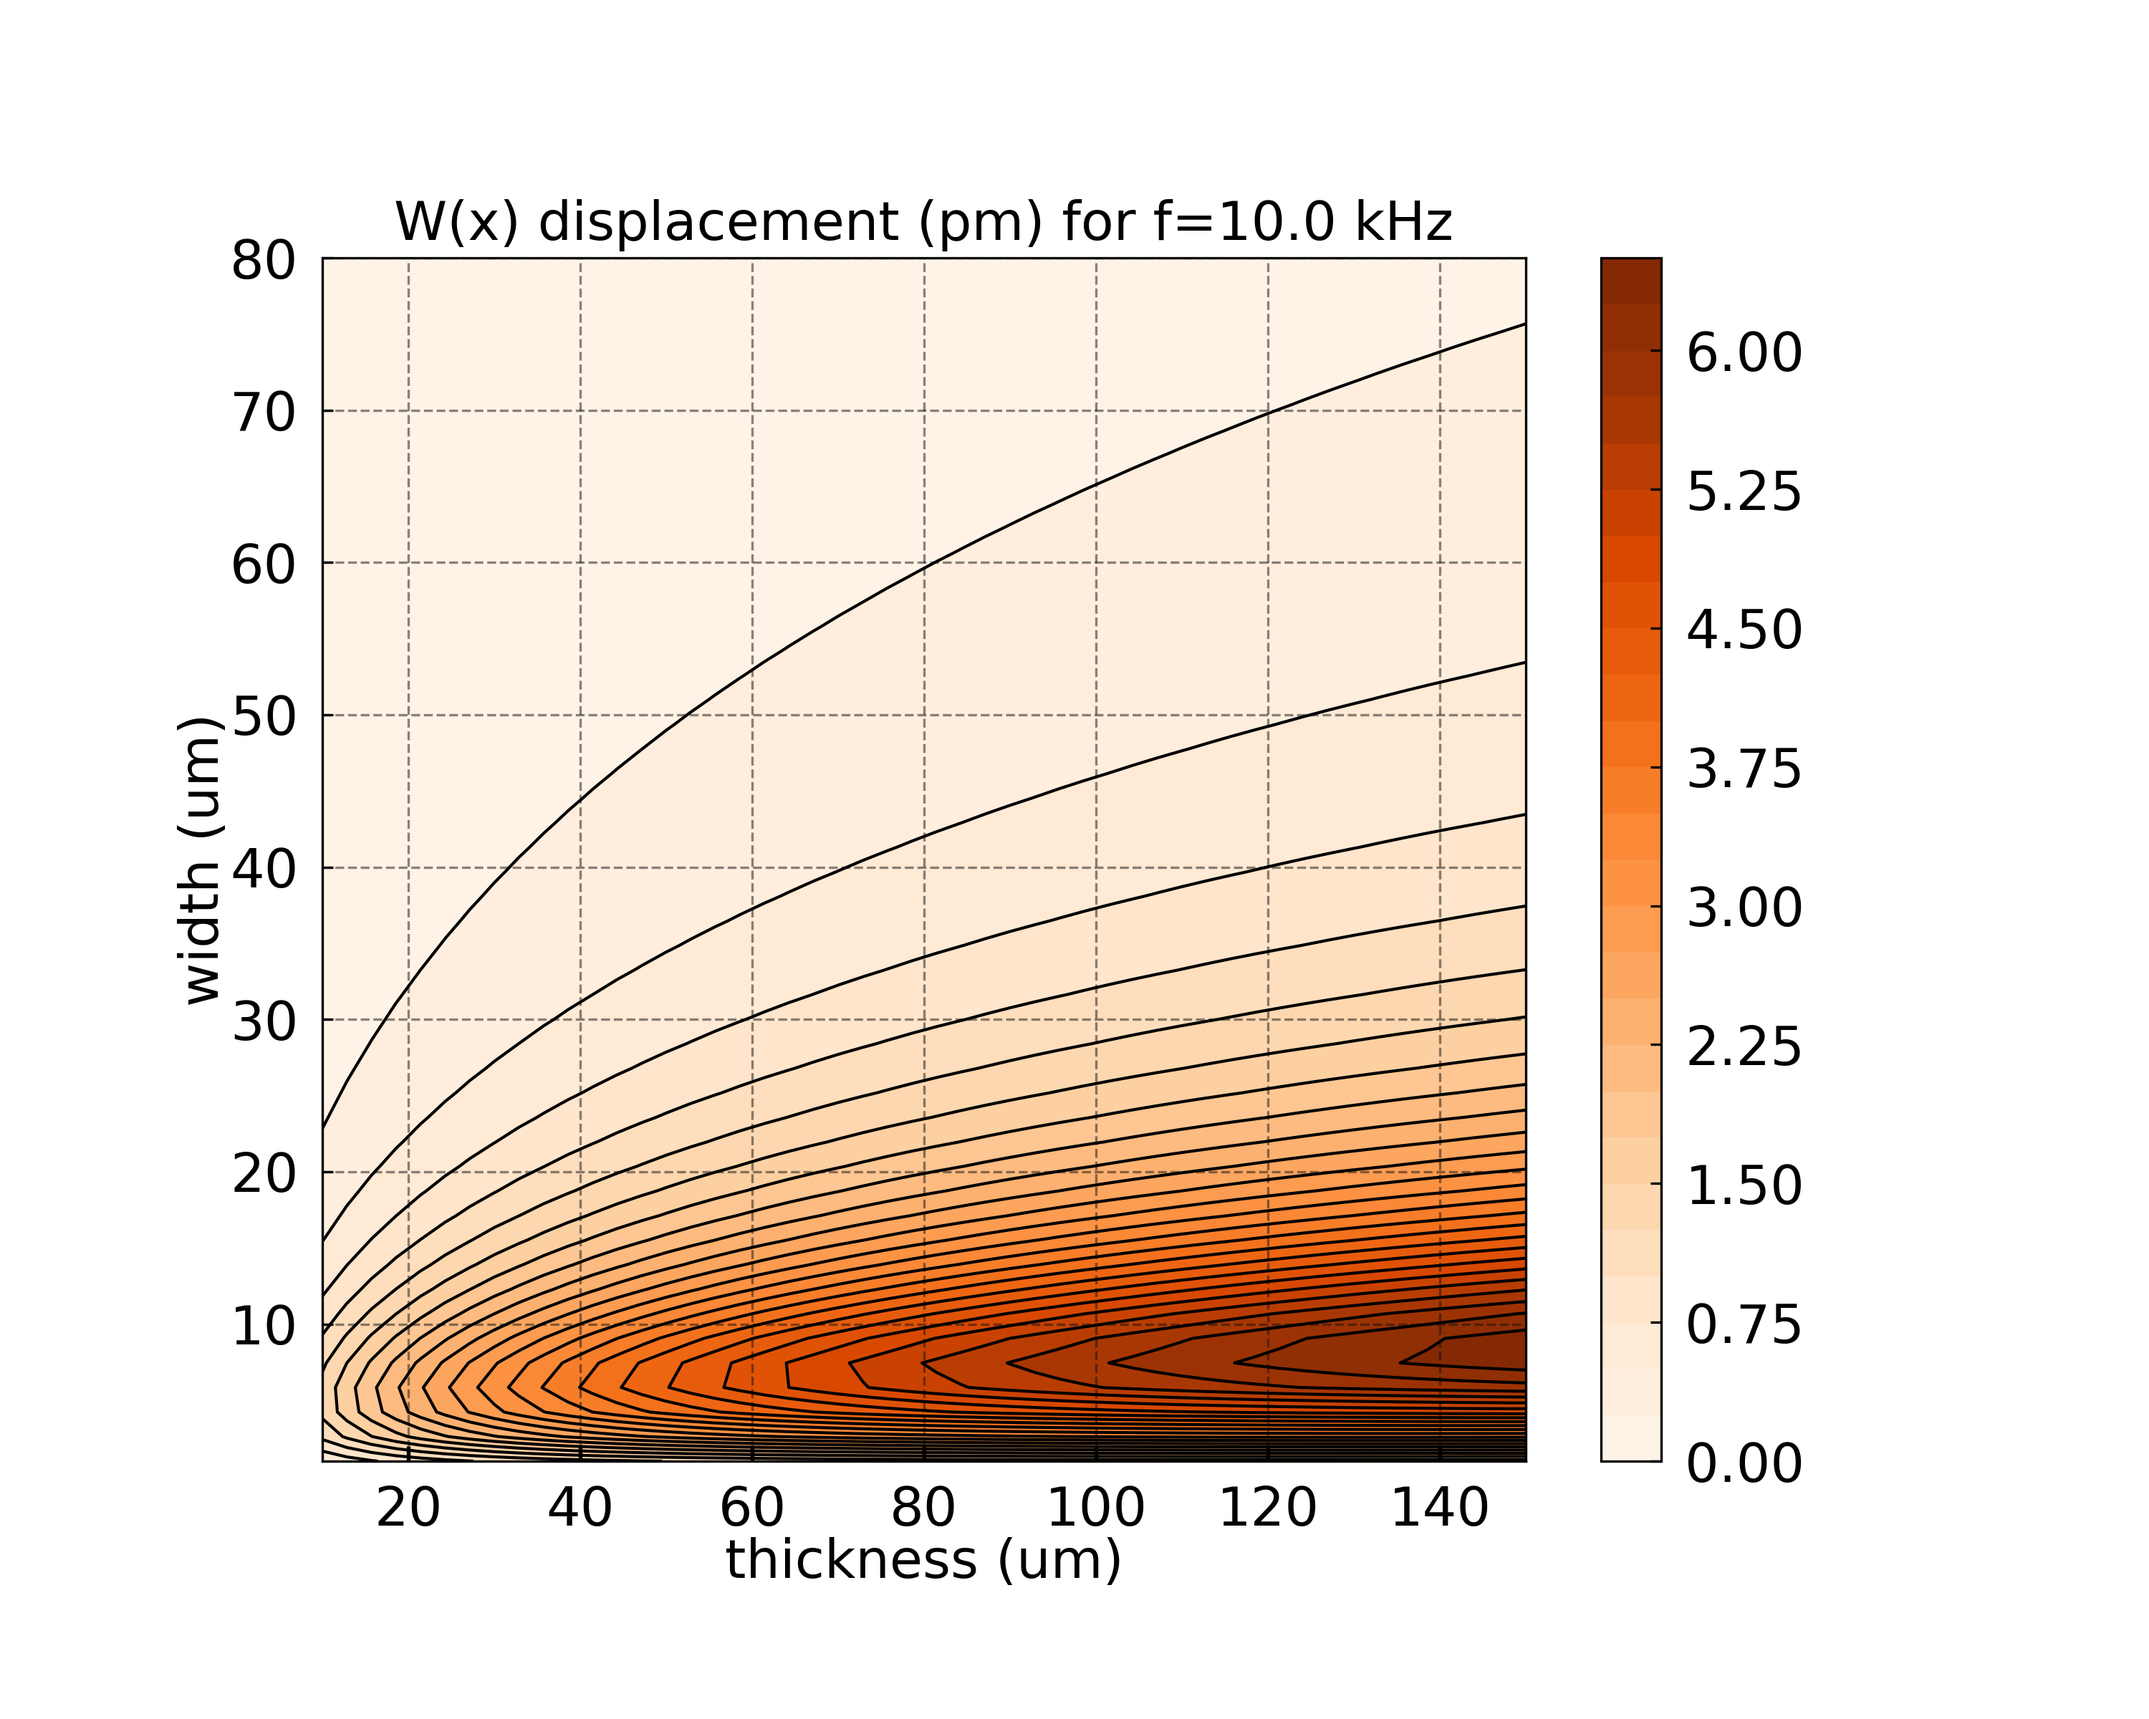
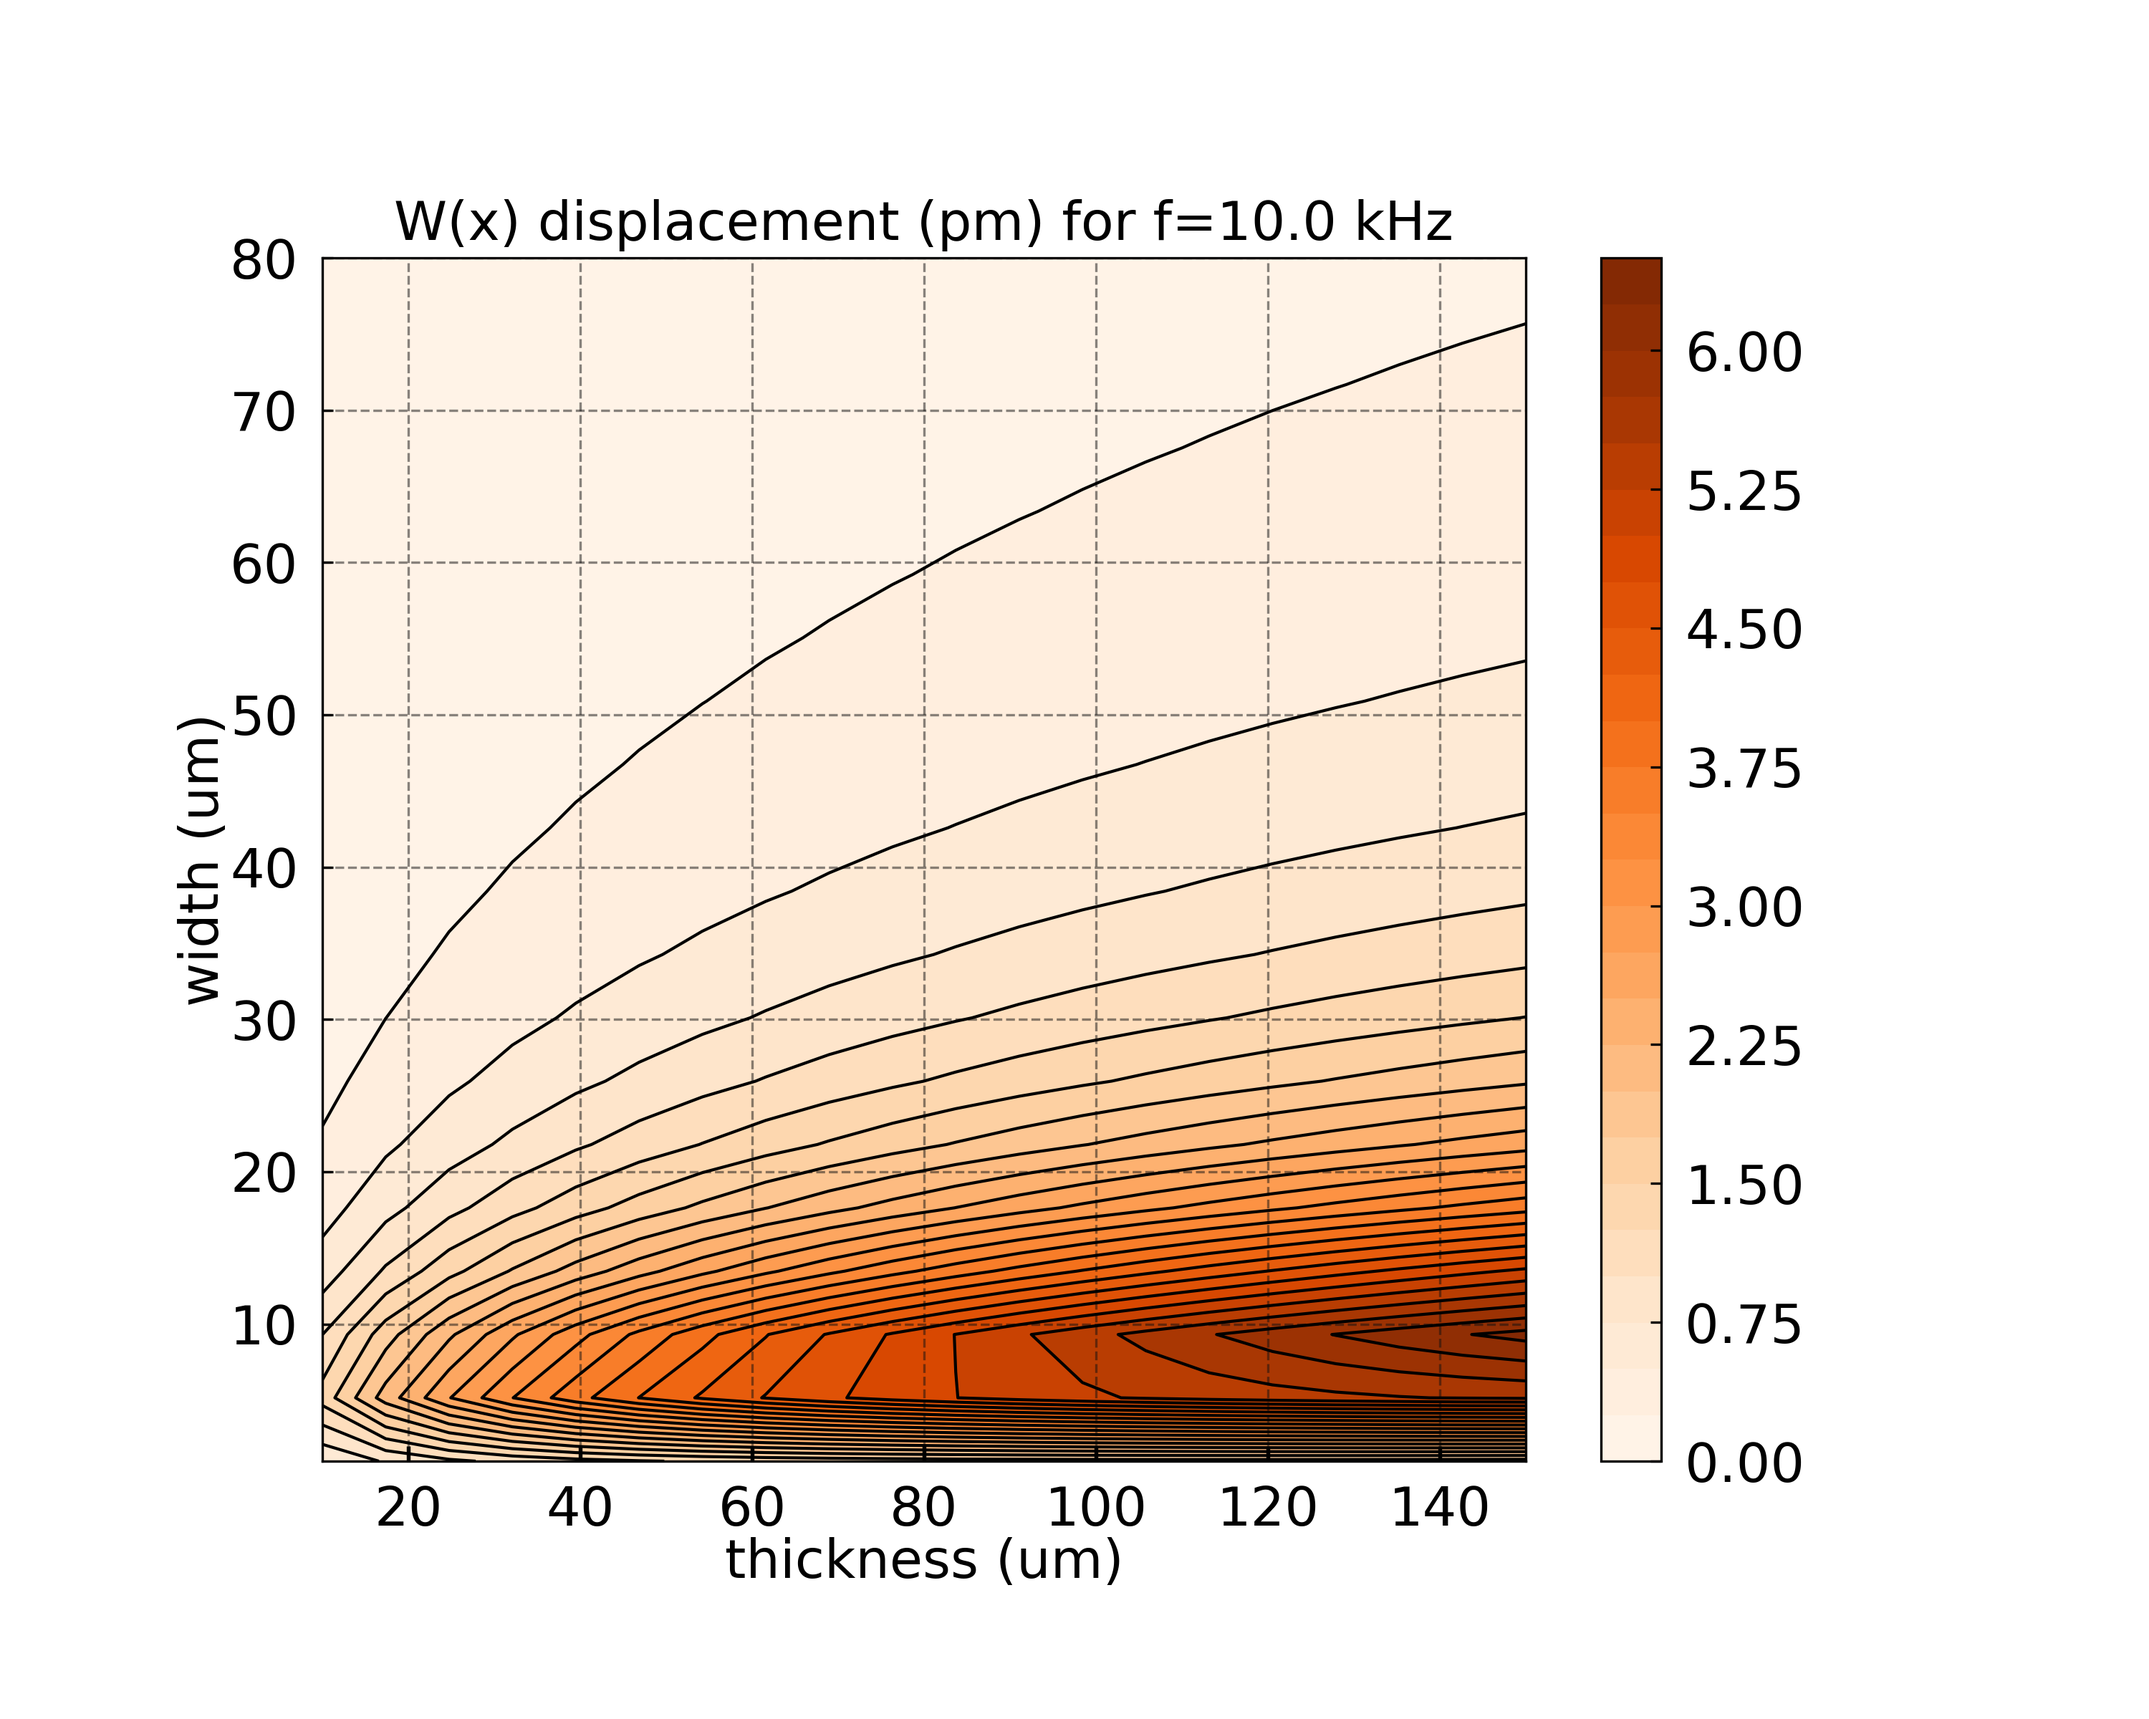
add force in acoustic pressure

Changed region(s): [[0.155, 0.5312, 0.713, 0.875]]

diff --git a/5-displacement.py b/5-displacement.py
@@ -23,24 +23,23 @@ from acoustic_pressure import acoustic_pressure as ap
 ###   PARAMs                   
 #################################################
 
-nbr_points = 50
+nbr_points = 20
 
 # Define resonator parameters
 Width = np.linspace(1e-6,80e-6,nbr_points) #[m]
 Thickness = np.linspace(1e-5,150e-6,nbr_points) #[m]
 Gap = 4e-6 #[m]
-Freq = 25e3 #[Hz]
+Freq = 10e3 #[Hz]
 
 #################################################
-###   COMPUTE                  
+###   DEFINE CLASS INSTANCE                  
 #################################################
 
-
-start = time.time()
-
+# External fluid
 Air = fm.Fluid(name='air')
 Air.info()
 
+# Targer gas
 Ch4 = fm.GasSpecie(dico={
     'name':'CH4',
     'abs wavelength [m]':1.65e-6,
@@ -51,18 +50,35 @@ Ch4 = fm.GasSpecie(dico={
     'concentration [Nbr_mlc/Nbr_tot]':0.01})
 Ch4.info()
 
+# Cantilever material
 Si100 = fm.Material(name='silicon_100')
 Si100.info()
 
-# Acoustic pressure with values from [1]
-AcPress = ap.AcousticPressure(fluid=Air,target_gas=Ch4,
+# Define cantilever
+Cant = ct.Cantilever(material=Si100,fluid=Air,dico={'name':'cant',
+        'length':None,
+        'width':None,
+        'thickness':None,
+        'gap':Gap,
+        'freq':Freq,
+        'Qvac':None})
+Cant.info()
+
+# Acoustic pressure
+AcPress = ap.AcousticPressure(fluid=Air,beam=Cant,target_gas=Ch4,
         laser={'freq_mod':Freq,
             'laser_power':10e-3,
             'wavelength':1.65e-6,
             'waist':100e-6,
-            'Rayleigh_length':None})
+            'Rayleigh_length':None,
+            'position':[0,0,150e-6]}) # Define waist position of the laser
 AcPress.info()
 
+
+#################################################
+###   COMPUTE                    
+#################################################
+start = time.time()
 
 W, T = np.meshgrid(Width, Thickness)
 
@@ -80,52 +96,16 @@ data = {'Qvis_sq':np.zeros((np.size(W,0),np.size(W,1))),
         'W':np.zeros((np.size(W,0),np.size(W,1))),
         'Force':np.zeros((np.size(W,0),np.size(W,1)))}
 
-#################################################
-###   FUNCTIONs                   
-#################################################
 
 def Compute_cant(w,t):
     # w the width
     # t the thickness
     dico = {}
-    Cant = ct.Cantilever(material=Si100,fluid=Air,dico={'name':'cant',
-            'length':None,
-            'width':w,
-            'thickness':t,
-            'gap':Gap,
-            'freq':Freq,
-            'Qvac':None})
+    Cant.width = w
+    Cant.thickness = t
     Cant.length_unkonw()
 
-    # Define waist position of the laser
-    xL = 0.725*Cant.length # [m] value obtain from plot_beam_position.py
-    yL = 0 # [m]
-    zL = 150e-6 # [m]
-
-    # Cantilver shape mode use for the acoustic force
-    def phi(x):
-        # return shape of the cantilever
-        # with normalization with Phi_max =1
-        # for the first mode phi is max for x=L 
-        # where L is the length of the cantilever
-        return Cant.phi(x)/Cant.phi(Cant.length)
-
-    # Pressure appplied on the cnatilever
-    def DeltaP_parallel(x,y):
-        # return the difference of pressure 
-        # beteween the top and back of the mechanicla resoantor
-        # when the laser beam is parallel to the length of the cantilever
-        time = 0
-        a = x-xL
-        b = y-yL
-        c = zL
-        P1 = np.abs(AcPress.P(a,b,c,time))
-        P2 = np.abs(AcPress.P(a,b,c+Cant.thickness,time))
-        return P1-P2
-
-    # Force on the cantilever
-    def Force_density_parallel(x,y):
-        return DeltaP_parallel(x,y)*phi(x)
+    AcPress.xL = 0.725*Cant.length # [m] value obtain from plot_beam_position.py
 
     # Fill the dictionary
     dico['Qvis_sq'] = Cant.Q_viscous_sq()
@@ -140,7 +120,7 @@ def Compute_cant(w,t):
     # dico['Mass_eff'] = Cant.effective_mass()
     dico['Xi'] = Cant.Xi0()
     # dico['XiS'] = dico['Xi']*dico['Surface']
-    dico['Force'], _ = dblquad(Force_density_parallel, -Cant.width/2, Cant.width/2, lambda toto: 0, lambda toto: Cant.length)
+    dico['Force'] = AcPress.Force()
     dico['W'] = dico['Xi']*dico['Force']
     return dico
 

diff --git a/acoustic_pressure/acoustic_pressure.py b/acoustic_pressure/acoustic_pressure.py
@@ -17,6 +17,7 @@ see also pdf and matlab file from her student
 
 from scipy.special import j0, y0 # zeroth-order Bessel functions of the first and second kinds
 from scipy.integrate import quad # integration 
+from scipy.integrate import dblquad  # for double integration
 import numpy as np
 import matplotlib.pyplot as plt
 import sys
@@ -33,15 +34,21 @@ from fluid_material import fluid_material as fm
 
 class AcousticPressure():
     # define a class wich can return the acoustic pressure
-    def __init__(self,fluid,target_gas,laser):
+    def __init__(self,fluid,target_gas,laser,beam=None):
         self.gas = target_gas 
         self.fluid = fluid
+        # beam or cantilever
+        self.beam = beam
         # modualtion frequency
         self.freq_mod = laser['freq_mod'] #[Hz]        
         # laser power
         self.Pl = laser['laser_power'] #[W]
         # laser wavelength
         self.wavelength = laser['wavelength'] # [m]
+        # laser position 
+        if laser['position'] is not None:
+
+            self.xL, self.yL, self.zL = laser['position']
         # laser waist (minimum value possible)
         # if we compare with [1] sigma = waist/2
         if laser['waist'] is None:
@@ -62,6 +69,45 @@ class AcousticPressure():
         self.waist = value
         # laser Rayleigh length
         self.Rayleigh = np.pi*self.waist**2/self.wavelength 
+
+    def Force(self):
+        # estimate the acoustic force applied on the resonator "beam"
+
+        # Define waist position of the laser
+        xL = self.xL
+        yL = self.yL
+        zL = self.zL
+        Cant = self.beam
+
+        # Cantilver shape mode use for the acoustic force
+        def phi(x):
+            # return shape of the cantilever
+            # with normalization with Phi_max =1
+            # for the first mode phi is max for x=L 
+            # where L is the length of the cantilever
+            return Cant.phi(x)/Cant.phi(Cant.length)
+
+        # Pressure appplied on the cnatilever
+        def DeltaP_parallel(x,y):
+            # return the difference of pressure 
+            # beteween the top and back of the mechanicla resoantor
+            # when the laser beam is parallel to the length of the cantilever
+            time = 0
+            a = x-xL
+            b = y-yL
+            c = zL
+            P1 = np.abs(self.P(a,b,c,time))
+            P2 = np.abs(self.P(a,b,c+Cant.thickness,time))
+            return P1-P2
+
+        # Force on the cantilever
+        def Force_density_parallel(x,y):
+            return DeltaP_parallel(x,y)*phi(x)
+
+        F, _ = dblquad(Force_density_parallel, -Cant.width/2, Cant.width/2,
+          lambda toto: 0, lambda toto: Cant.length)
+
+        return F        
 
     def P(self,x,y,z,t):
         '''
@@ -113,8 +159,10 @@ class AcousticPressure():
         print('waist            = %f um'%(self.waist*1e6))
         if self.freq_mod is not None:
             print('modulation       = %f kHz'%(self.freq_mod*1e-3))
+        print('\n')
         print('GAS   :')
         print("losses           = %f cm-1"%(self.alpha_eff*1e-2))
+        print('\n')
 
 
 if __name__ == "__main__":
@@ -137,12 +185,13 @@ if __name__ == "__main__":
     Ch4.relaxation_time = 1e-9
     Ch4.info()
 
-    AcPress = AcousticPressure(fluid=Air,target_gas=Ch4,
+    AcPress = AcousticPressure(fluid=Air,target_gas=Ch4,beam=None,
             laser={'freq_mod':32.8e3,
                 'laser_power':61.7e-3,
                 'wavelength':1.53e-6,
                 'waist':100e-6,
-                'Rayleigh_length':None})
+                'Rayleigh_length':None,
+                'position':None})
     AcPress.info()
 
     Pressure = []

diff --git a/geometry/beam.py b/geometry/beam.py
@@ -18,6 +18,8 @@ class Beam():
         self.gap = dico['gap'] # gap of air for the squeeze film
         if (self.length is not None) and (self.thickness is not None)  and (self.width is not None):
             self.mass = self.masse()
+        else:
+            self.mass = None
         ## RESONANCE
         self.freq = dico['freq'] # [Hz]
         self.Qvac = dico['Qvac'] # quality factor under vacuum
@@ -26,16 +28,33 @@ class Beam():
         print('BEAM '+ self.name+' : ')
         if self.length is not None:
             print('length = %g mm'%(self.length*1e3))
-        print('width = %g um'%(self.width*1e6))
-        print('thickness = %g um'%(self.thickness*1e6))
+        else:
+            print('length = None')
+        if self.width is not None:
+            print('width = %g um'%(self.width*1e6))
+        else:
+            print('width = None')
+        if self.thickness is not None:
+            print('thickness = %g um'%(self.thickness*1e6))
+        else:
+            print('thickness = None')
         if self.gap is not None:
             print('gap = %g um'%(self.gap*1e6))
+        else:
+            print('gap = None')
         if self.freq is not None:
             print('resonant frequency = %g kHz'%(self.freq/1e3))
+        else:
+            print('resonant frequency = None')
         if self.Qvac is not None:
             print('quality factor under vacum = %g'%(self.Qvac))
+        else:
+            print('quality factor under vacum = None')
         if self.mass is not None:
             print('mass = %g ug'%(self.mass*1e9))
+        else:
+            print('mass = None')
+        print('\n')
 
     def masse(self):
         m = self.density*self.length*self.width*self.thickness #[kg]

diff --git a/geometry/cantilever.py b/geometry/cantilever.py
@@ -32,8 +32,7 @@ class Cantilever(be.Beam):
         if dico['freq'] is None:
             self.freq = self.f0()
         # quality factor
-        if (self.width is not None) and (self.thickness is not None):
-            self.hydro = hf.HydrodynamicFunction(fluid,self)
+        self.hydro = None
         self.Qsup = None # Q support
         self.Qvis = None # Q viscous
         self.Qted = None # Q thermoelastic
@@ -164,6 +163,11 @@ class Cantilever(be.Beam):
         return Q
 
     def Q_viscous_sq(self):
+        if self.hydro is None :         
+            if (self.width is not None) and (self.thickness is not None):
+               self.hydro = hf.HydrodynamicFunction(self.fluid,self)
+            else:
+                raise ValueError('Beam thickess and/or width should have a value.')
         # Q viscous with squeeze film
         self.hydro.Re = self.hydro.ReynoldsNumber()
         self.hydro.Sader = self.hydro.SaderCoefficient()
@@ -176,6 +180,11 @@ class Cantilever(be.Beam):
         return self.hydro.Q
 
     def Q_viscous_nosq(self):
+        if self.hydro is None : 
+            if (self.width is not None) and (self.thickness is not None):
+                self.hydro = hf.HydrodynamicFunction(self.fluid,self)
+            else:
+                raise ValueError('Beam thickess and/or width should have a value.')
         # Q viscous without squeeze film
         self.hydro.Re = self.hydro.ReynoldsNumber()
         self.hydro.Sader = self.hydro.SaderCoefficient()

diff --git a/transduction/capacitance.py b/transduction/capacitance.py
@@ -1,0 +1,9 @@
+# Capacitance and its variation from X the susceptibility
+# [1] Mu, L., Zhang, W., He, C., Zhang, R., Song, J., & Xue, C. (2015). 
+# Design and test of a capacitance detection circuit based on a transimpedance 
+# amplifier. 
+# Journal of Semiconductors, 36(7), 1–8. 
+# https://doi.org/10.1088/1674-4926/36/7/075007
+
+class Capacitance():
+    

diff --git a/1-relaxation.py b/1-relaxation.py
@@ -35,7 +35,8 @@ AcPress = ap.AcousticPressure(fluid=Air,target_gas=Ch4,
             'laser_power':10e-3,
             'wavelength':1.65e-6,
             'waist':100e-6,
-            'Rayleigh_length':None})
+            'Rayleigh_length':None,
+            'position':None})
 AcPress.info()
 
 zL = 150e-6 # [m] distance between laser beam and resonator

diff --git a/2-acoustice_force.py b/2-acoustice_force.py
@@ -83,7 +83,8 @@ AcPress = ap.AcousticPressure(fluid=Air,target_gas=Ch4,
             'laser_power':10e-3,
             'wavelength':1.65e-6,
             'waist':100e-6,
-            'Rayleigh_length':None})
+            'Rayleigh_length':None,
+            'position':[xL,yL,zL]})
 AcPress.info()
 
 def phi(x):
